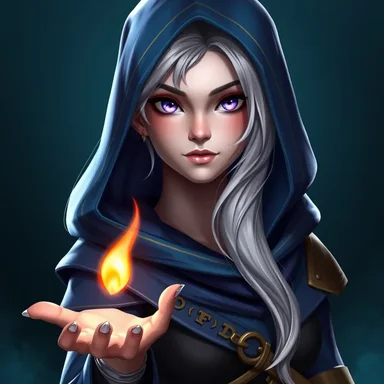
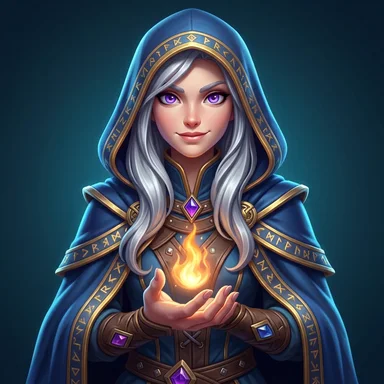
Retratos dos 8 heróis e dos personagens, arte da página inicial e capas dos capítulos

diff --git a/index.html b/index.html
@@ -24,7 +24,7 @@
     .heroi .arte::after { content: ''; position: absolute; inset: 0; background: linear-gradient(90deg, rgba(13, 11, 9, 0.96) 0%, rgba(13, 11, 9, 0.82) 38%, rgba(13, 11, 9, 0.2) 70%, rgba(13, 11, 9, 0.35) 100%), linear-gradient(0deg, var(--fundo) 0%, transparent 25%); }
     .heroi.com-arte .ilustra { visibility: hidden; }
     .capa-cap { width: 100%; aspect-ratio: 16 / 7; border-radius: 10px; background: #1a130c center / cover; margin-bottom: 18px; border: 1px solid var(--borda); }
-    @media (max-width: 900px) { .heroi .arte::after { background: linear-gradient(0deg, rgba(13, 11, 9, 0.97) 0%, rgba(13, 11, 9, 0.75) 55%, rgba(13, 11, 9, 0.35) 100%); } .heroi.com-arte .ilustra { display: none; } }
+    @media (max-width: 900px) { .heroi .arte { bottom: auto; height: 46vh; background-position: 55% center; } .heroi .arte::after { background: linear-gradient(0deg, var(--fundo) 0%, rgba(13, 11, 9, 0.45) 45%, rgba(13, 11, 9, 0.15) 100%); } .heroi.com-arte .bloco { padding-top: 34vh; } .heroi.com-arte .ilustra { display: none; } }
     .heroi .bloco { position: relative; display: grid; grid-template-columns: 1.1fr 0.9fr; gap: 40px; align-items: center; padding-top: 40px; }
     .heroi h1 { font-size: clamp(2.2rem, 6.4vw, 4.2rem); line-height: 1.04; margin-bottom: 18px; }
     .heroi h1 em { font-style: normal; color: var(--brasa); }
@@ -201,7 +201,7 @@
   <footer class="rodape">
     <div class="bloco">
       <p><b class="marca" style="font-size:1rem">RUNA</b> · campanhas originais "A Noite do Sino Morto" e "A Coroa do Rei Corvo". Regras inspiradas no sistema d20.</p>
-      <p>Modelos 3D: <a href="https://kaylousberg.com" target="_blank" rel="noopener">KayKit, de Kay Lousberg</a> (CC0) e <a href="https://quaternius.com" target="_blank" rel="noopener">Quaternius</a> (CC0; o monstro "Big arm" em CC BY), via <a href="https://poly.pizza" target="_blank" rel="noopener">Poly Pizza</a>. Retratos dos heróis gerados com FLUX no Hugging Face. Reconhecimento de marcadores: <a href="https://github.com/damianofalcioni/js-aruco2" target="_blank" rel="noopener">js-aruco2</a>. 3D: <a href="https://threejs.org" target="_blank" rel="noopener">three.js</a>. Ícones: <a href="https://lucide.dev" target="_blank" rel="noopener">Lucide</a>.</p>
+      <p>Modelos 3D: <a href="https://kaylousberg.com" target="_blank" rel="noopener">KayKit, de Kay Lousberg</a> (CC0) e <a href="https://quaternius.com" target="_blank" rel="noopener">Quaternius</a> (CC0; o monstro "Big arm" em CC BY), via <a href="https://poly.pizza" target="_blank" rel="noopener">Poly Pizza</a>. Retratos e ilustrações gerados com Google Gemini e ChatGPT. Reconhecimento de marcadores: <a href="https://github.com/damianofalcioni/js-aruco2" target="_blank" rel="noopener">js-aruco2</a>. 3D: <a href="https://threejs.org" target="_blank" rel="noopener">three.js</a>. Ícones: <a href="https://lucide.dev" target="_blank" rel="noopener">Lucide</a>.</p>
       <p><a href="admin.html">Painel do administrador</a></p>
     </div>
   </footer>
